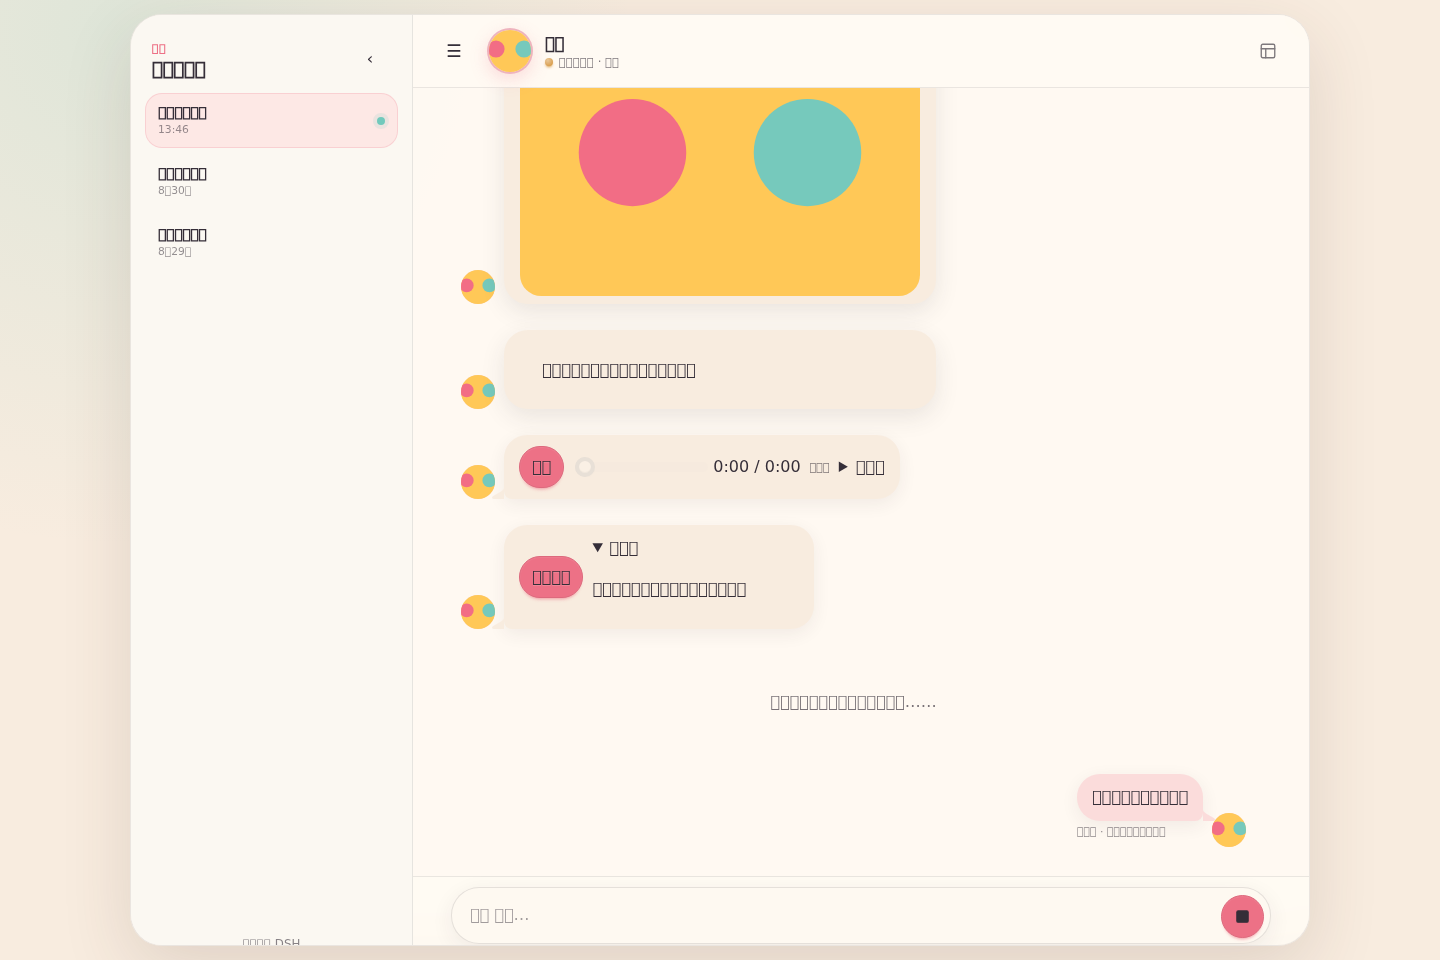
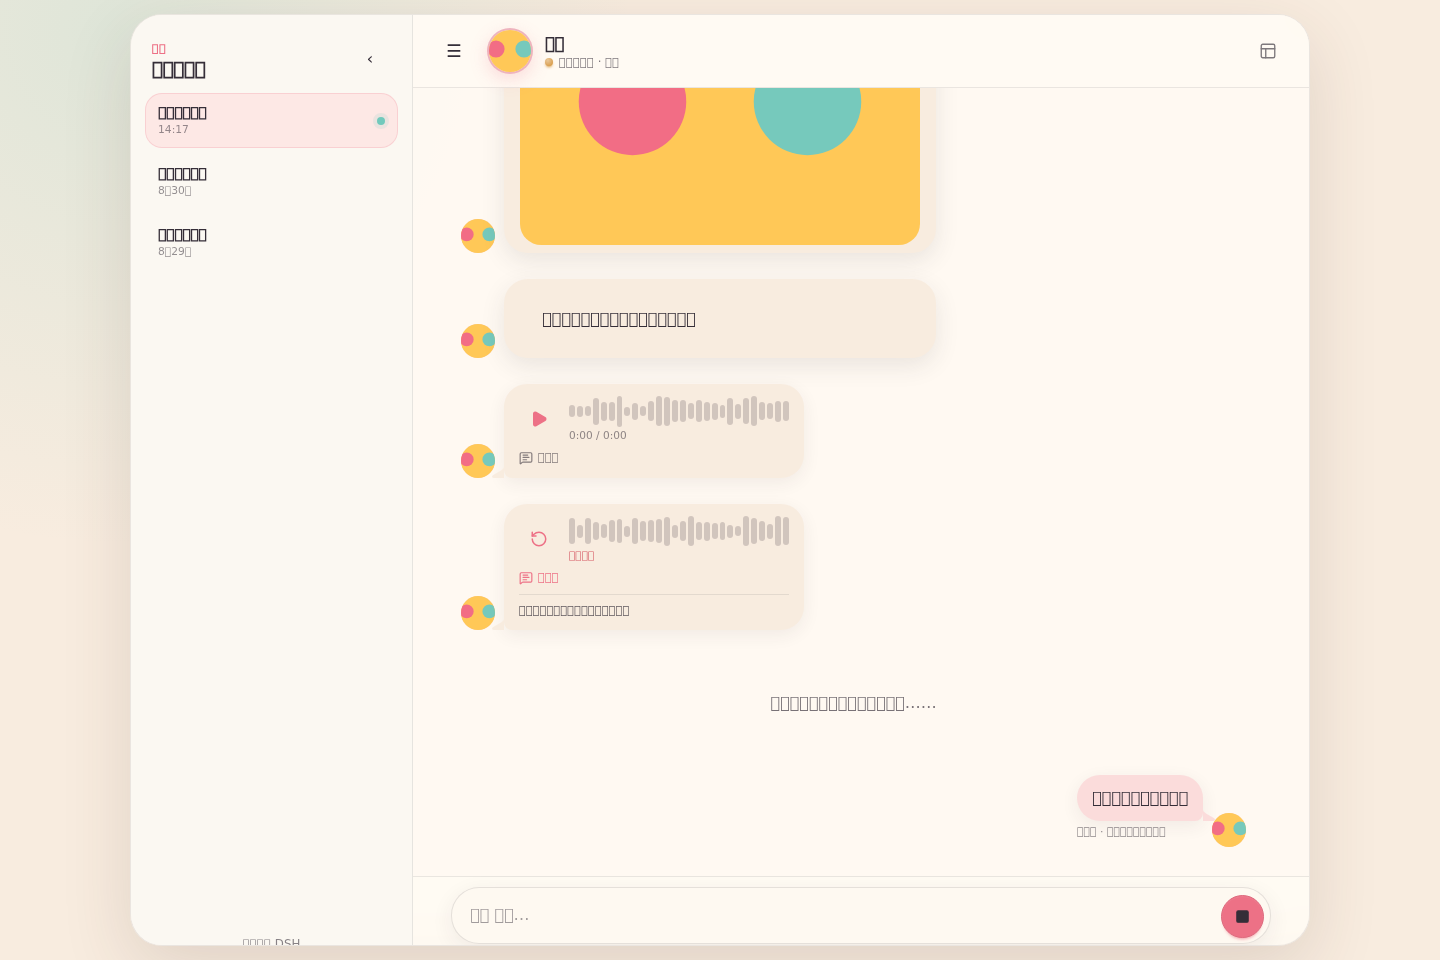
feat(companion): refine mobile voice playback

diff --git a/src/client/Companion.svelte b/src/client/Companion.svelte
@@ -1,6 +1,11 @@
 <script lang="ts">
   import { createEventDispatcher, onDestroy, tick } from "svelte";
+  import LoaderCircle from "lucide-svelte/icons/loader-circle";
+  import MessageSquareText from "lucide-svelte/icons/message-square-text";
   import PanelsTopLeft from "lucide-svelte/icons/panels-top-left";
+  import Pause from "lucide-svelte/icons/pause";
+  import Play from "lucide-svelte/icons/play";
+  import RotateCcw from "lucide-svelte/icons/rotate-ccw";
   import Square from "lucide-svelte/icons/square";
   import type { CompanionProjection, TimelineImage, TimelineVoice } from "../projection.js";
   import { createComposerState, reduceComposer, shouldSubmitEnter } from "./composer.js";
@@ -48,6 +53,7 @@
   const dispatch = createEventDispatcher<{ advanced: void; recovery: void }>();
   const LONG_WAIT_DELAY_MS = 12_000;
   const LONG_WAIT_ROTATION_MS = 9_000;
+  const VOICE_WAVEFORM_BAR_COUNT = 28;
   const LONG_WAIT_MESSAGES = [
     "我还在认真想，陪我再等一小会儿呀",
     "正在把想说的话轻轻理好……",
@@ -68,7 +74,7 @@
   let voiceUrls: Record<string, string> = {};
   let voiceErrors: Record<string, string> = {};
   let voicePreparing: Record<string, boolean> = {};
-  let voicePlayback: Record<string, { current: number; duration: number; playing: boolean; ended: boolean }> = {};
+  let voicePlayback: Record<string, { current: number; duration: number; playing: boolean }> = {};
   let imageUrls: Record<string, string> = {};
   let imageErrors: Record<string, string> = {};
   let imageSources: Record<string, string> = {};
@@ -191,17 +197,18 @@
   async function prepareVoice(item: TimelineVoice): Promise<void> {
     if (!actions.prepareVoice || voiceUrls[item.id] || voicePreparing[item.id]) return;
     voicePreparing = { ...voicePreparing, [item.id]: true };
+    const nextErrors = { ...voiceErrors }; delete nextErrors[item.id]; voiceErrors = nextErrors;
     try { voiceUrls = { ...voiceUrls, [item.id]: await actions.prepareVoice(item.text) }; }
-    catch { voiceErrors = { ...voiceErrors, [item.id]: "语音暂时无法播放，文字稿仍可查看。" }; }
+    catch { voiceErrors = { ...voiceErrors, [item.id]: "语音暂时无法播放，文字内容仍可查看。" }; }
     finally { const next = { ...voicePreparing }; delete next[item.id]; voicePreparing = next; }
   }
 
-  function updateVoicePlayback(id: string, patch: Partial<{ current: number; duration: number; playing: boolean; ended: boolean }>): void {
-    voicePlayback = { ...voicePlayback, [id]: { current: 0, duration: 0, playing: false, ended: false, ...voicePlayback[id], ...patch } };
+  function updateVoicePlayback(id: string, patch: Partial<{ current: number; duration: number; playing: boolean }>): void {
+    voicePlayback = { ...voicePlayback, [id]: { current: 0, duration: 0, playing: false, ...voicePlayback[id], ...patch } };
   }
 
-  function voiceState(id: string): { current: number; duration: number; playing: boolean; ended: boolean } {
-    return voicePlayback[id] ?? { current: 0, duration: 0, playing: false, ended: false };
+  function voiceState(id: string): { current: number; duration: number; playing: boolean } {
+    return voicePlayback[id] ?? { current: 0, duration: 0, playing: false };
   }
 
   function formatDuration(value: number): string {
@@ -210,8 +217,27 @@
     return `${Math.floor(seconds / 60)}:${String(seconds % 60).padStart(2, "0")}`;
   }
 
+  function voiceProgress(id: string): number {
+    const state = voiceState(id);
+    return state.duration > 0 ? Math.min(1, Math.max(0, state.current / state.duration)) : 0;
+  }
+
+  function voiceWaveform(id: string): number[] {
+    let seed = 2166136261;
+    for (const character of id) seed = Math.imul(seed ^ character.codePointAt(0)!, 16777619);
+    return Array.from({ length: VOICE_WAVEFORM_BAR_COUNT }, (_, index) => {
+      seed = Math.imul(seed ^ index, 2246822519);
+      return 28 + (Math.abs(seed) % 69);
+    });
+  }
+
   function audioFor(control: Element): HTMLAudioElement | undefined {
     return control.closest(".companion-voice")?.querySelector<HTMLAudioElement>("audio") ?? undefined;
+  }
+
+  function failVoice(id: string): void {
+    const nextUrls = { ...voiceUrls }; delete nextUrls[id]; voiceUrls = nextUrls;
+    voiceErrors = { ...voiceErrors, [id]: "语音暂时无法播放，文字内容仍可查看。" };
   }
 
   async function toggleVoice(item: TimelineVoice, control: Element): Promise<void> {
@@ -226,7 +252,7 @@
       if (audio.paused) await audio.play();
       else audio.pause();
     } catch {
-      voiceErrors = { ...voiceErrors, [item.id]: "语音暂时无法播放，文字稿仍可查看。" };
+      failVoice(item.id);
     }
   }
 
@@ -235,12 +261,12 @@
     const value = Number((event.currentTarget as HTMLInputElement).value);
     if (!audio || !Number.isFinite(value)) return;
     audio.currentTime = value;
-    updateVoicePlayback(id, { current: value, ended: false });
+    updateVoicePlayback(id, { current: value });
   }
 
-  function onVoicePlay(id: string): void { updateVoicePlayback(id, { playing: true, ended: false }); }
+  function onVoicePlay(id: string): void { updateVoicePlayback(id, { playing: true }); }
   function onVoicePause(id: string): void { updateVoicePlayback(id, { playing: false }); }
-  function onVoiceEnded(id: string): void { updateVoicePlayback(id, { playing: false, ended: true }); }
+  function onVoiceEnded(id: string): void { updateVoicePlayback(id, { playing: false }); }
   function onVoiceLoaded(id: string, event: Event): void {
     const audio = event.target as HTMLAudioElement;
     updateVoicePlayback(id, { duration: Number.isFinite(audio.duration) ? audio.duration : 0, current: audio.currentTime });
@@ -490,17 +516,32 @@
             {:else if item.kind === "voice"}
               <article class="cmp-chat cmp-chat-start companion-row incoming" data-testid={`voice-${item.id}`}>
                 <div class="cmp-chat-image cmp-avatar cmp-avatar-placeholder cmp:rounded-full message-avatar"><div class="companion-avatar-crop cmp:rounded-full">{#if identity.companionAvatar}<img src={identity.companionAvatar} alt="" />{:else}<span aria-hidden="true">✦</span>{/if}</div></div>
-                <div class="cmp-chat-bubble companion-bubble companion-voice" class:is-playing={voiceState(item.id).playing}>
+                <div class="cmp-chat-bubble companion-bubble companion-voice" role="region" aria-label="语音播放器">
                   {#if voiceUrls[item.id]}
-                    <audio class="companion-audio" preload="none" src={voiceUrls[item.id]} aria-hidden="true" tabindex="-1" on:loadedmetadata={(event) => onVoiceLoaded(item.id, event)} on:timeupdate={(event) => onVoiceTime(item.id, event)} on:play={() => onVoicePlay(item.id)} on:pause={() => onVoicePause(item.id)} on:ended={() => onVoiceEnded(item.id)} on:error={() => voiceErrors = { ...voiceErrors, [item.id]: "语音暂时无法播放，文字稿仍可查看。" }}></audio>
-                    <button class="cmp-btn cmp-btn-primary cmp-btn-sm companion-voice-control" aria-label={voiceState(item.id).playing ? "暂停语音" : "播放语音"} on:click={(event) => void toggleVoice(item, event.currentTarget)}>{voiceState(item.id).playing ? "暂停" : "播放"}</button>
-                    <div class="companion-voice-progress">
-                      <input class="cmp-range cmp-range-sm" type="range" min="0" max={voiceState(item.id).duration || 0} step="0.1" value={voiceState(item.id).current} disabled={!voiceState(item.id).duration} aria-label="语音进度" on:input={(event) => seekVoice(event, item.id)} />
-                      <span aria-live="off">{formatDuration(voiceState(item.id).current)} / {formatDuration(voiceState(item.id).duration)}</span>
+                    <audio class="companion-audio" preload="none" src={voiceUrls[item.id]} aria-hidden="true" tabindex="-1" on:loadedmetadata={(event) => onVoiceLoaded(item.id, event)} on:timeupdate={(event) => onVoiceTime(item.id, event)} on:play={() => onVoicePlay(item.id)} on:pause={() => onVoicePause(item.id)} on:ended={() => onVoiceEnded(item.id)} on:error={() => failVoice(item.id)}></audio>
+                    <button class="cmp-btn cmp-btn-ghost cmp-btn-circle companion-voice-control" aria-label={voiceState(item.id).playing ? "暂停语音" : "播放语音"} on:click={(event) => void toggleVoice(item, event.currentTarget)}>
+                      {#if voiceState(item.id).playing}<Pause size={18} fill="currentColor" aria-hidden="true" />{:else}<Play size={18} fill="currentColor" aria-hidden="true" />{/if}
+                    </button>
+                    <div class="companion-voice-player">
+                      <div class="companion-voice-waveform">
+                        {#each voiceWaveform(item.id) as height, index}<span class:played={(index + 1) / VOICE_WAVEFORM_BAR_COUNT <= voiceProgress(item.id)} style={`--voice-bar:${height}%`} aria-hidden="true"></span>{/each}
+                        <input class="companion-voice-seek" type="range" min="0" max={voiceState(item.id).duration || 0} step="0.1" value={voiceState(item.id).current} disabled={!voiceState(item.id).duration} aria-label="语音进度" aria-valuetext={`${formatDuration(voiceState(item.id).current)} / ${formatDuration(voiceState(item.id).duration)}`} on:input={(event) => seekVoice(event, item.id)} />
+                      </div>
+                      <div class="companion-voice-meta"><span role="timer" aria-live="off">{formatDuration(voiceState(item.id).current)} / {formatDuration(voiceState(item.id).duration)}</span>{#if voiceErrors[item.id]}<span role="alert">播放失败</span>{/if}</div>
                     </div>
-                    <span class="companion-voice-state" role="status">{voiceState(item.id).playing ? "播放中" : voiceState(item.id).ended ? "已播放" : "可播放"}</span>
-                  {:else}<button class="cmp-btn cmp-btn-primary cmp-btn-sm" on:click={(event) => void toggleVoice(item, event.currentTarget)} disabled={!actions.prepareVoice || voicePreparing[item.id]}>{voicePreparing[item.id] ? "准备中…" : voiceErrors[item.id] ? "重试播放" : "播放语音"}</button>{/if}
-                  <details open={Boolean(voiceErrors[item.id])}><summary>文字稿</summary><p>{item.text}</p></details>
+                  {:else}
+                    <button class="cmp-btn cmp-btn-ghost cmp-btn-circle companion-voice-control" aria-label={voicePreparing[item.id] ? "正在准备语音" : voiceErrors[item.id] ? "重试语音" : "播放语音"} on:click={(event) => void toggleVoice(item, event.currentTarget)} disabled={!actions.prepareVoice || voicePreparing[item.id]}>
+                      {#if voicePreparing[item.id]}<LoaderCircle class="companion-spin" size={18} aria-hidden="true" />{:else if voiceErrors[item.id]}<RotateCcw size={18} aria-hidden="true" />{:else}<Play size={18} fill="currentColor" aria-hidden="true" />{/if}
+                    </button>
+                    <div class="companion-voice-player">
+                      <div class="companion-voice-waveform">{#each voiceWaveform(item.id) as height}<span style={`--voice-bar:${height}%`} aria-hidden="true"></span>{/each}</div>
+                      <div class="companion-voice-meta">{#if voicePreparing[item.id]}<span role="status">准备中</span>{:else if voiceErrors[item.id]}<span role="alert">播放失败</span>{:else}<span>0:00</span>{/if}</div>
+                    </div>
+                  {/if}
+                  <details class="companion-transcript" open={Boolean(voiceErrors[item.id])}>
+                    <summary><MessageSquareText size={14} aria-hidden="true" /><span>转文字</span></summary>
+                    <p>{item.text}</p>
+                  </details>
                 </div>
               </article>
             {:else}
@@ -565,5 +606,5 @@
 <style>
   .companion-sr-only { position:absolute; width:1px; height:1px; padding:0; margin:-1px; overflow:hidden; clip:rect(0,0,0,0); white-space:nowrap; border:0; }
   .companion-avatar-crop { background:color-mix(in srgb, var(--color-primary) 20%, var(--color-base-200)); color:var(--color-primary); font-weight:700; }
-  @media (max-width: 520px) { .companion-timeline { padding-bottom:8px; } .companion-composer { padding-inline:9px; } .companion-voice { min-width:0; flex-wrap:wrap; } .companion-voice audio { max-width:180px; } }
+  @media (max-width: 520px) { .companion-timeline { padding-bottom:8px; } .companion-composer { padding-inline:9px; } .companion-voice { min-width:0; } }
 </style>

diff --git a/src/client/theme.ts b/src/client/theme.ts
@@ -12,7 +12,7 @@ export const companionStyles = `
   --cmp-line:color-mix(in srgb,var(--color-base-content) 10%,transparent);
   --cmp-panel:color-mix(in srgb,var(--color-base-100) 94%,transparent);
   --cmp-shadow:0 22px 70px rgb(76 48 40 / .14);
-  box-sizing:border-box;height:100dvh;overflow:hidden;color:var(--color-base-content);
+  box-sizing:border-box;height:100dvh;overflow:hidden;color:var(--color-base-content);-webkit-tap-highlight-color:transparent;
   background:radial-gradient(circle at 8% 3%,color-mix(in srgb,var(--color-secondary) 19%,transparent),transparent 32%),var(--color-base-200);
   font-family:ui-rounded,"SF Pro Rounded","Segoe UI",system-ui,sans-serif;
 }
@@ -59,11 +59,23 @@ export const companionStyles = `
 #dsh-companion .companion-media{width:min(70vw,480px);overflow:hidden;border-radius:24px;background:var(--color-base-200);box-shadow:0 8px 24px color-mix(in srgb,var(--color-base-content) 10%,transparent)}
 #dsh-companion .companion-media-button{display:block;width:100%;padding:0;border:0;background:transparent;cursor:zoom-in}
 #dsh-companion .companion-media img{display:block;width:100%;max-height:520px;object-fit:cover}
-#dsh-companion .companion-voice{display:flex;align-items:center;gap:9px;min-width:min(310px,70vw)}
+#dsh-companion .companion-voice{display:grid;grid-template-columns:40px minmax(0,1fr);align-items:center;gap:6px 10px;min-width:min(300px,70vw)}
 #dsh-companion .companion-audio{position:absolute;width:1px;height:1px;overflow:hidden;clip-path:inset(50%)}
-#dsh-companion .companion-voice-progress{display:grid;grid-template-columns:minmax(75px,1fr) auto;align-items:center;gap:7px;min-width:130px}
-#dsh-companion .companion-voice-progress input{width:100%;accent-color:var(--color-primary)}
-#dsh-companion .companion-voice-state{opacity:.62;font-size:.7rem;white-space:nowrap}
+#dsh-companion .companion-voice-control{width:40px;height:40px;min-width:40px;min-height:40px;color:var(--color-primary)}
+#dsh-companion .companion-voice-player{min-width:0}
+#dsh-companion .companion-voice-waveform{position:relative;display:flex;height:32px;align-items:center;gap:2px;min-width:150px;cursor:pointer}
+#dsh-companion .companion-voice-waveform>span{width:3px;height:var(--voice-bar);flex:1;border-radius:999px;background:color-mix(in srgb,var(--color-base-content) 20%,transparent);transition:background-color .12s ease}
+#dsh-companion .companion-voice-waveform>span.played{background:var(--color-primary)}
+#dsh-companion .companion-voice-seek{position:absolute;inset:0;width:100%;height:100%;margin:0;opacity:0;cursor:pointer}
+#dsh-companion .companion-voice-waveform:has(.companion-voice-seek:focus-visible){outline:2px solid var(--color-primary);outline-offset:3px;border-radius:var(--radius-field)}
+#dsh-companion .companion-voice-meta{display:flex;min-height:16px;align-items:center;justify-content:space-between;gap:10px;color:color-mix(in srgb,var(--color-base-content) 55%,transparent);font-size:.66rem;line-height:1.2}
+#dsh-companion .companion-voice-meta [role="alert"]{color:var(--color-error)}
+#dsh-companion .companion-transcript{grid-column:1/-1;font-size:.72rem}
+#dsh-companion .companion-transcript summary{display:flex;width:max-content;align-items:center;gap:5px;color:color-mix(in srgb,var(--color-base-content) 60%,transparent);cursor:pointer;list-style:none}
+#dsh-companion .companion-transcript summary::-webkit-details-marker{display:none}
+#dsh-companion .companion-transcript[open] summary{color:var(--color-primary)}
+#dsh-companion .companion-transcript p{margin:7px 0 0;padding-top:7px;border-top:1px solid var(--cmp-line);color:color-mix(in srgb,var(--color-base-content) 78%,transparent);line-height:1.45}
+#dsh-companion .companion-spin{animation:companion-spin .8s linear infinite}
 #dsh-companion .companion-composer{padding:10px 18px max(14px,env(safe-area-inset-bottom));border-top:1px solid var(--cmp-line);background:color-mix(in srgb,var(--color-base-100) 88%,transparent);backdrop-filter:blur(20px)}
 #dsh-companion .companion-compose-row{display:flex;align-items:flex-end;gap:8px;max-width:820px;margin:auto;padding:5px 6px 5px 18px;border:1px solid color-mix(in srgb,var(--color-base-content) 12%,transparent);border-radius:28px;background:color-mix(in srgb,var(--color-base-100) 92%,var(--color-base-200));box-shadow:0 6px 22px color-mix(in srgb,var(--color-base-content) 7%,transparent);transition:border-color .16s ease,box-shadow .16s ease}
 #dsh-companion .companion-compose-row:focus-within{border-color:color-mix(in srgb,var(--color-primary) 65%,transparent);box-shadow:0 0 0 4px color-mix(in srgb,var(--color-primary) 16%,transparent),0 8px 26px color-mix(in srgb,var(--color-base-content) 8%,transparent)}
@@ -112,8 +124,9 @@ export const companionStyles = `
 #dsh-companion .companion-lightbox-close{position:absolute;top:12px;right:12px;z-index:1}
 @keyframes companion-card-in{from{opacity:0;transform:translateY(-8px) scale(.96)}to{opacity:1;transform:none}}
 @keyframes companion-waiting-in{from{opacity:0;transform:translateX(-4px)}to{opacity:1;transform:none}}
+@keyframes companion-spin{to{transform:rotate(360deg)}}
 @media (min-width:821px){#dsh-companion .companion-sidebar-layer{position:relative;grid-column:1;grid-row:1;transform:none;width:100%;overflow:hidden}#dsh-companion .companion-app > .cmp-drawer-toggle:not(:checked) ~ .companion-sidebar-layer{width:0}#dsh-companion .companion-sidebar{position:absolute;inset:0 auto 0 0}}
 @media (max-width:820px){#dsh-companion.companion-shell{padding:0}#dsh-companion .companion-app,#dsh-companion .companion-app:has(> .cmp-drawer-toggle:checked){grid-template-columns:minmax(0,1fr);width:100%;height:100dvh;border:0;border-radius:0}#dsh-companion .companion-content{grid-column:1}#dsh-companion .companion-sidebar-layer{width:100%}#dsh-companion .companion-sidebar-overlay{position:absolute;inset:0;display:block;background:transparent}#dsh-companion .companion-sidebar{position:relative;width:min(84vw,300px);box-shadow:20px 0 60px rgb(0 0 0 / .2)}#dsh-companion .companion-header{padding:calc(10px + env(safe-area-inset-top)) 13px 10px}#dsh-companion .companion-timeline{padding:18px 12px 10px}#dsh-companion .companion-composer{padding-inline:9px}#dsh-companion .companion-compose-hint{display:none}#dsh-companion .companion-message-stack,#dsh-companion .companion-bubble{max-width:78vw}}
-@media (max-width:430px){#dsh-companion .companion-avatar{width:42px;height:42px}#dsh-companion .companion-header{gap:8px}#dsh-companion .companion-row{grid-template-columns:30px minmax(0,auto);gap:7px}#dsh-companion .companion-row.outgoing{grid-template-columns:minmax(0,auto) 30px}#dsh-companion .message-avatar{width:30px;height:30px}#dsh-companion .companion-voice{min-width:0;flex-wrap:wrap}}
+@media (max-width:430px){#dsh-companion .companion-avatar{width:42px;height:42px}#dsh-companion .companion-header{gap:8px}#dsh-companion .companion-row{grid-template-columns:30px minmax(0,auto);gap:7px}#dsh-companion .companion-row.outgoing{grid-template-columns:minmax(0,auto) 30px}#dsh-companion .message-avatar{width:30px;height:30px}#dsh-companion .companion-voice{min-width:0}}
 @media (prefers-reduced-motion:reduce){#dsh-companion *,#dsh-companion *::before,#dsh-companion *::after{animation-duration:.01ms!important;transition-duration:.01ms!important;scroll-behavior:auto!important}}
 `;

diff --git a/tests/e2e/fixture.spec.ts b/tests/e2e/fixture.spec.ts
@@ -6,7 +6,16 @@ test("fixture has complete media states, accessible overlays, and no duplicate i
   await expect(page.getByTestId("companion-root")).toHaveAttribute("data-theme", "sticker-messenger");
   await expect(page.locator(".companion-header")).not.toContainText("把平凡日子折成星星");
   await expect(page.getByRole("button", { name: /今晚的海/ })).toBeVisible();
-  await expect(page.getByTestId("voice-voice:demo:1:abc").getByText("文字稿")).toBeVisible();
+  const voice = page.getByTestId("voice-voice:demo:1:abc");
+  await expect(voice.getByRole("region", { name: "语音播放器" })).toBeVisible();
+  const playVoice = voice.getByRole("button", { name: "播放语音" });
+  await expect(playVoice.locator("svg")).toHaveCount(1);
+  await expect.poll(() => playVoice.evaluate((node) => getComputedStyle(node).backgroundColor)).toBe("rgba(0, 0, 0, 0)");
+  await expect(voice.locator(".companion-voice-waveform")).toBeVisible();
+  await expect(voice.getByRole("slider", { name: "语音进度" })).toBeAttached();
+  await expect(voice.getByRole("timer")).toContainText("0:00");
+  await expect(voice.getByText("转文字")).toBeVisible();
+  await expect(page.getByTestId("voice-voice:demo:failed").getByRole("button", { name: "重试语音" }).locator("svg")).toHaveCount(1);
   const avatar = page.getByRole("button", { name: "查看 Companion 关系资料" });
   await avatar.focus();
   await avatar.click();
@@ -156,6 +165,7 @@ test("drawer uses one checkbox state across desktop and Pixel-sized layouts", as
     await expect.poll(() => page.locator(".companion-sidebar-overlay").evaluate((node) => getComputedStyle(node).backgroundColor)).toBe("rgba(0, 0, 0, 0)");
     await page.locator(".companion-sidebar-overlay").click({ position: { x: 390, y: 120 } });
     await expect(toggle).not.toBeChecked();
+    await expect.poll(() => headerToggle.evaluate((node) => getComputedStyle(node).getPropertyValue("-webkit-tap-highlight-color"))).toBe("rgba(0, 0, 0, 0)");
   } else {
     await expect(toggle).toBeChecked();
     await headerToggle.click();
